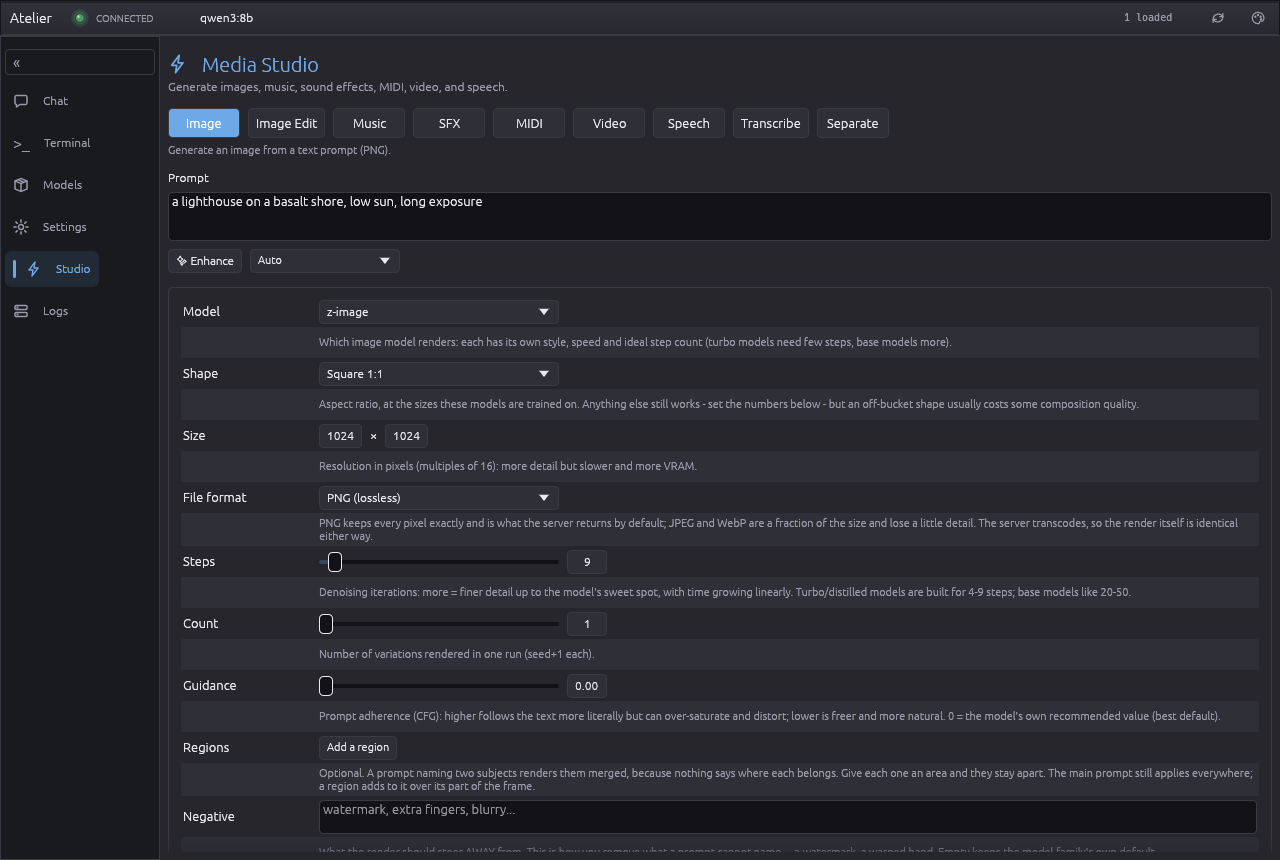
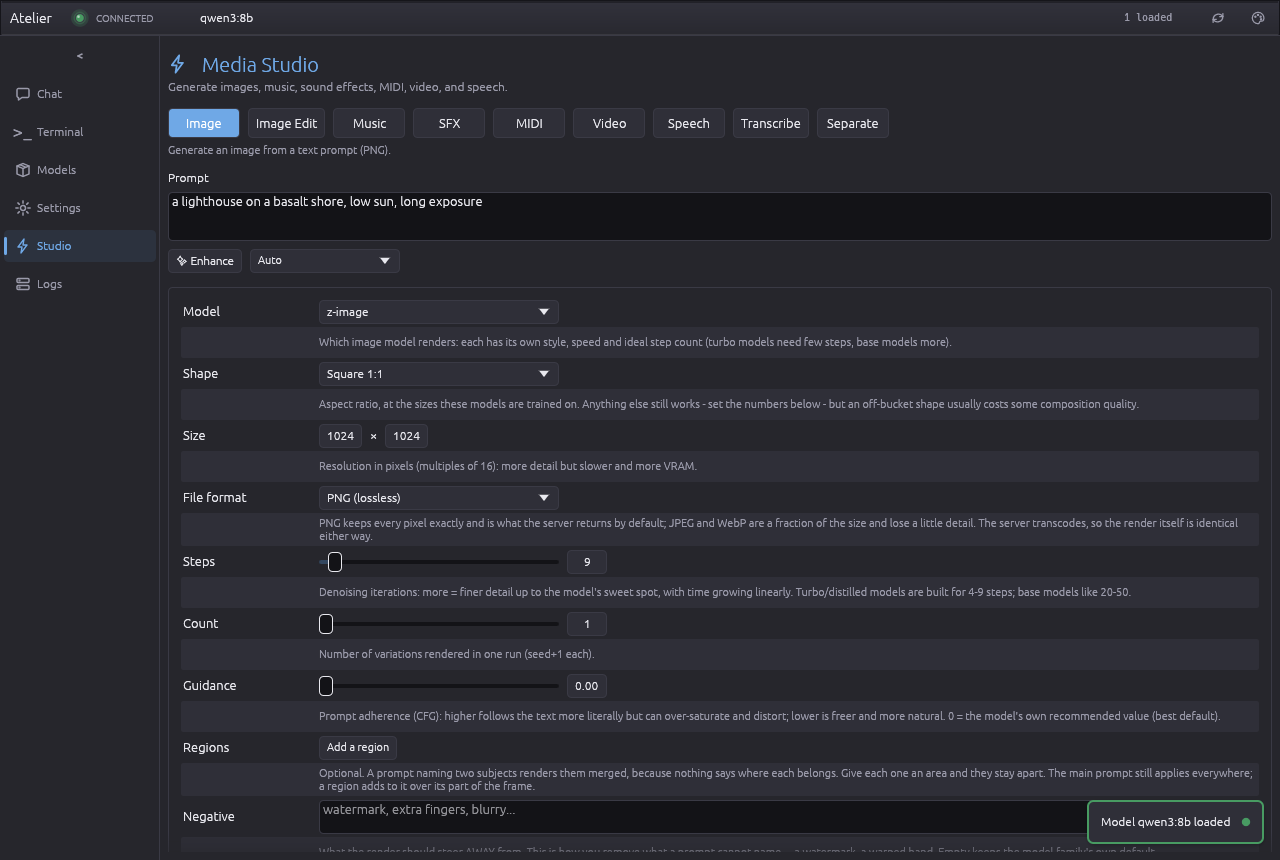
The sidebar has one accent and a drawn chevron
A navigation item is a cell of fixed height; the active one carries the
accent as a stripe, a wash and its tint, the others are dim ink. The
collapse toggle is a chevron drawn with two strokes and named for the
accessibility tree, which is how the test now finds it. The rail is the
panel fill with one hairline on the edge the content meets.

diff --git a/src/ui/layout.rs b/src/ui/layout.rs
@@ -11,8 +11,8 @@
 //! +------+----------------------------------------------+
 //! ```
 
-use eframe::egui::{self, Color32, RichText, CornerRadius, Stroke, Vec2};
-use crate::theme::{self, text};
+use eframe::egui::{self, Align2, Color32, FontId, Pos2, Rect, Response, Sense, Stroke, Vec2, WidgetInfo, WidgetType};
+use crate::theme::{self, text, HAIRLINE};
 use crate::state::Section;
 use crate::icons::Icon;
 use crate::ui::{surface, widgets};
@@ -23,6 +23,25 @@ const SIDEBAR_WIDTH_EXPANDED: f32 = 160.0;
 
 /// Point size of a navigation icon or glyph.
 const NAV_ICON_PT: f32 = 16.0;
+/// Padding of the rail.
+const SIDEBAR_PAD_X: i8 = 4;
+const SIDEBAR_PAD_Y: i8 = 8;
+/// A navigation item: its height, its corner, the wash behind the active
+/// one, the gap to the next.
+const NAV_ITEM_H: f32 = 32.0;
+const NAV_RADIUS: f32 = 4.0;
+const NAV_WASH_A: u8 = 24;
+const NAV_ITEM_GAP: f32 = 2.0;
+/// The stripe beside the active item.
+const NAV_STRIPE: Vec2 = Vec2::new(3.0, 18.0);
+const NAV_STRIPE_RADIUS: f32 = 1.5;
+/// Inset of the icon from the stripe, and the gap between icon and label.
+const NAV_PAD_X: f32 = 8.0;
+const NAV_GAP: f32 = 6.0;
+/// The toggle row, and the chevron drawn in it.
+const TOGGLE_H: f32 = 24.0;
+const CHEVRON_W: f32 = 10.0;
+const CHEVRON_STROKE_W: f32 = 1.5;
 
 /// Sidebar navigation item. `icon` is an Icon variant rather than an emoji
 /// character. Terminal keeps a text glyph (">_"), which is a command-prompt
@@ -173,122 +192,124 @@ pub fn top_bar(ui: &mut egui::Ui, input: &TopBarInput) -> TopBarOutput {
 /// per-item hover tooltips - label plus a one-line description - are how a section
 /// is identified.
 #[allow(deprecated)] // see top_bar — Panel::show(&Context) until eframe top-level Ui exists.
-pub fn sidebar(
-    ui: &mut egui::Ui,
-    current: &mut Section,
-    sidebar_expanded: bool,
-) -> bool {
-    let width = if sidebar_expanded { SIDEBAR_WIDTH_EXPANDED } else { SIDEBAR_WIDTH };
-    let bg = if theme::is_dark() { Color32::from_rgb(24, 26, 30) } else { Color32::WHITE };
-    let border = theme::border();
-    let toggle_color = theme::ink_dim();
+pub fn sidebar(ui: &mut egui::Ui, current: &mut Section, expanded: bool) -> bool {
+    let width = if expanded { SIDEBAR_WIDTH_EXPANDED } else { SIDEBAR_WIDTH };
+    let margin = egui::Margin::symmetric(SIDEBAR_PAD_X, SIDEBAR_PAD_Y);
     let mut toggle_clicked = false;
 
     egui::Panel::left("nav_sidebar")
         .exact_size(width)
         .resizable(false)
-        .frame(egui::Frame {
-            inner_margin: egui::Margin::symmetric(4, 8),
-            fill: bg,
-            stroke: Stroke::new(1.0, border),
-            ..Default::default()
-        })
+        .frame(egui::Frame::NONE.fill(theme::panel()).inner_margin(margin))
         .show(ui, |ui| {
-            ui.add_space(4.0);
+            // One hairline on the edge the content meets; the top bar owns
+            // the other.
+            let outer = ui.max_rect().expand2(margin.sum() / 2.0);
+            ui.painter().vline(
+                outer.right() - HAIRLINE / 2.0,
+                outer.y_range(),
+                Stroke::new(HAIRLINE, theme::border()),
+            );
 
-            // Collapse/expand toggle. A chevron pointing "«" (collapse)
-            // when expanded and "»" (expand) when collapsed — the glyph
-            // shows the direction the rail will move. Full-width button
-            // so it stays clickable in the 56px collapsed rail.
-            let (glyph, tip) = if sidebar_expanded {
-                ("\u{00AB}", "Collapse sidebar to icons only")
-            } else {
-                ("\u{00BB}", "Expand sidebar to show labels")
-            };
-            let toggle = egui::Button::new(RichText::new(glyph).size(NAV_ICON_PT).color(toggle_color))
-                .fill(Color32::TRANSPARENT)
-                .min_size(Vec2::new(ui.available_width(), 24.0));
-            if ui.add(toggle).on_hover_text(tip).clicked() {
+            if sidebar_toggle(ui, expanded).clicked() {
                 toggle_clicked = true;
             }
-            ui.add_space(4.0);
+            ui.add_space(NAV_GAP);
 
             for item in NAV_ITEMS {
-                render_nav_item(ui, current, &item.icon, item.label, item.tip, item.section, sidebar_expanded);
-                ui.add_space(2.0);
+                let active = *current == item.section;
+                if nav_pill(ui, &item.icon, item.label, item.tip, active, expanded).clicked() {
+                    *current = item.section;
+                }
+                ui.add_space(NAV_ITEM_GAP);
             }
         });
 
     toggle_clicked
 }
 
-/// Render a single navigation item. The active item carries the accent.
-#[allow(clippy::too_many_arguments)]
-fn render_nav_item(
+/// The collapse toggle: a chevron pointing the way the rail will move.
+fn sidebar_toggle(ui: &mut egui::Ui, expanded: bool) -> Response {
+    let (rect, response) =
+        ui.allocate_exact_size(Vec2::new(ui.available_width(), TOGGLE_H), Sense::click());
+    let (dir, tip) = if expanded {
+        (surface::Chevron::Left, "Collapse sidebar")
+    } else {
+        (surface::Chevron::Right, "Expand sidebar")
+    };
+    let hovered = response.hovered();
+    if hovered {
+        ui.painter().rect_filled(rect, NAV_RADIUS, theme::raised());
+    }
+    let ink = if hovered { theme::ink() } else { theme::ink_dim() };
+    let glyph = Rect::from_center_size(rect.center(), Vec2::splat(CHEVRON_W));
+    surface::chevron(ui, glyph, dir, Stroke::new(CHEVRON_STROKE_W, ink));
+    response.widget_info(|| WidgetInfo::labeled(WidgetType::Button, true, tip));
+    response.on_hover_text(tip)
+}
+
+/// One navigation item. The active one carries the accent three ways: a
+/// stripe, a wash and its tint; the others are dim ink.
+fn nav_pill(
     ui: &mut egui::Ui,
-    current: &mut Section,
     icon: &NavIcon,
     label: &str,
     tip: &str,
-    section: Section,
-    sidebar_expanded: bool,
-) {
+    active: bool,
+    expanded: bool,
+) -> Response {
     let accent = theme::accent();
-    let is_active = *current == section;
-    let (fill, text_color) = if is_active {
-        (
-            theme::tinted(accent, 30),
-            accent,
-        )
+    let (rect, response) =
+        ui.allocate_exact_size(Vec2::new(ui.available_width(), NAV_ITEM_H), Sense::click());
+    let painter = ui.painter();
+    if active {
+        painter.rect_filled(rect, NAV_RADIUS, theme::tinted(accent, NAV_WASH_A));
+        let bar = Rect::from_center_size(
+            Pos2::new(rect.left() + NAV_STRIPE.x / 2.0, rect.center().y),
+            NAV_STRIPE,
+        );
+        painter.rect_filled(bar, NAV_STRIPE_RADIUS, accent);
+    } else if response.hovered() {
+        painter.rect_filled(rect, NAV_RADIUS, theme::raised());
+    }
+    let ink = if active { accent } else { theme::ink_dim() };
+
+    let icon_cx = if expanded {
+        rect.left() + NAV_STRIPE.x + NAV_PAD_X + NAV_ICON_PT / 2.0
     } else {
-        (
-            Color32::TRANSPARENT,
-            theme::ink_dim(),
-        )
+        rect.center().x
     };
-
-    let resp = egui::Frame {
-        inner_margin: egui::Margin::symmetric(8, 6),
-        corner_radius: CornerRadius::same(6),
-        fill,
-        ..Default::default()
+    let icon_rect = Rect::from_center_size(
+        Pos2::new(icon_cx, rect.center().y),
+        Vec2::splat(NAV_ICON_PT),
+    );
+    match icon {
+        NavIcon::Svg(ic) => ic.image(NAV_ICON_PT, ink).paint_at(ui, icon_rect),
+        NavIcon::Text(s) => {
+            ui.painter().text(
+                icon_rect.center(),
+                Align2::CENTER_CENTER,
+                *s,
+                FontId::monospace(NAV_ICON_PT),
+                ink,
+            );
+        }
     }
-    .show(ui, |ui| {
-        ui.horizontal(|ui| {
-            if is_active {
-                let (bar_rect, _) = ui.allocate_exact_size(Vec2::new(3.0, 18.0), egui::Sense::hover());
-                ui.painter().rect_filled(bar_rect, 1.5, accent);
-                ui.add_space(2.0);
-            }
-
-            // SVG icons tint via `text_color` so the colour scheme
-            // (active accent vs muted) carries through. Text-glyph
-            // fallback ("Terminal" → ">_") keeps the same RichText
-            // path it had before the conversion.
-            match icon {
-                NavIcon::Svg(ic)   => { ic.show(ui, NAV_ICON_PT, text_color); }
-                NavIcon::Text(s)   => { ui.label(RichText::new(*s).size(NAV_ICON_PT).color(text_color)); }
-            }
-            if sidebar_expanded {
-                ui.add_space(6.0);
-                ui.label(text::value(label).color(text_color));
-            }
-        });
-    });
-
-    let click_resp = resp.response.interact(egui::Sense::click());
-    // Tooltip shows the section label + a one-line description.
-    // Especially valuable in collapsed-sidebar mode where only the
-    // icon glyph is visible — the bold label disambiguates the icon
-    // and the tip teaches what the section actually does, so new
-    // users don't have to click every icon to discover the layout.
-    let click_resp = click_resp.on_hover_ui(|ui| {
-        ui.label(egui::RichText::new(label).strong());
-        ui.label(egui::RichText::new(tip).small());
-    });
-    if click_resp.clicked() {
-        *current = section;
+    if expanded {
+        ui.painter().text(
+            Pos2::new(icon_rect.right() + NAV_GAP, rect.center().y),
+            Align2::LEFT_CENTER,
+            label,
+            FontId::proportional(text::VALUE_PT),
+            ink,
+        );
     }
+
+    response.widget_info(|| WidgetInfo::labeled(WidgetType::Button, true, label));
+    response.on_hover_ui(|ui| {
+        ui.label(text::value(label));
+        ui.label(text::note(tip));
+    })
 }
 
 /// Classify the top-bar connection status into a (dot colour, short
@@ -404,13 +425,8 @@ mod tests {
                 .root()
                 .children_recursive()
                 .filter(|n| {
-                    let ak = n.accesskit_node();
-                    let text = format!(
-                        "{}{}",
-                        ak.label().unwrap_or_default(),
-                        ak.value().unwrap_or_default()
-                    );
-                    text.contains('\u{00AB}') || text.contains('\u{00BB}')
+                    let label = n.accesskit_node().label().unwrap_or_default();
+                    label == "Collapse sidebar" || label == "Expand sidebar"
                 })
                 .count()
         }
